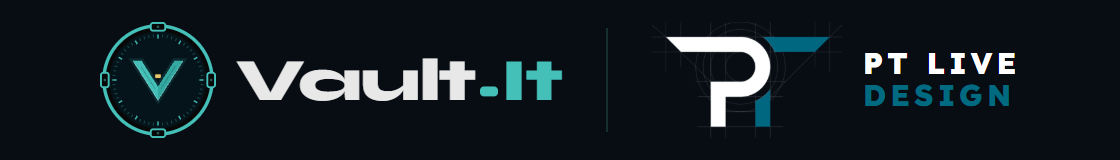
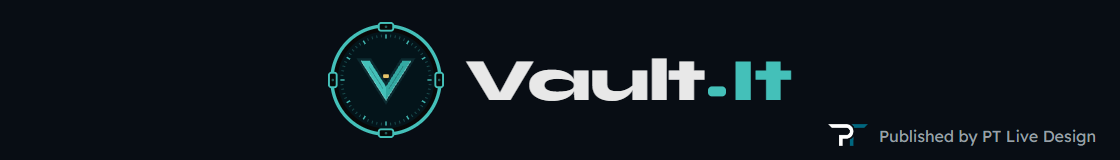
Founder footer: Vault-It leads, small PT mark and Published by PT Live Design
Owner, 4 Nov: no PT Live Design words beside the logo, just the PT, placed small in the bottom
right with "Published by PT Live Design" at 6 pt. brand/ptlive/pt-live-design-mark.png is the
owner's logo with its construction grid taken out. Deployed to media.vault-it.co.

diff --git a/docs/marketing/founder-email/build.js b/docs/marketing/founder-email/build.js
@@ -9,7 +9,7 @@
 // (brand/vault-it-logo-mark-full.svg) the tick ring turns 60 degrees in 900 ms on cubic-bezier(.2,.8,.2,1); the V, bolts and brick stay still.
 // 60 ticks with a long one every 30 degrees, so the turned ring matches the start and the loop is seamless.
 // Frame one is the finished still (Outlook on Windows shows only frame one); plays 3 times, then rests.
-// PT Live Design: the owner's own logo, brand/ptlive/pt-live-design-logo.png, used as supplied (or --ptl-logo another file).
+// PT Live Design: the owner's own logo, brand/ptlive/pt-live-design-logo.png, used as supplied with no words beside it (or --ptl-logo another file).
 // Run (Git Bash, repo root):  node docs/marketing/founder-email/build.js [--ptl-logo path/to/logo.png] [--shots]
 // Needs Chromium (Playwright's copy, or set CHROME=path) and network once for the Google Fonts files.
 const fs = require('fs'), path = require('path'), os = require('os'), cp = require('child_process');
@@ -28,32 +28,32 @@ const icon = fs.readFileSync(path.join(ROOT, 'brand/vault-it-logo-mark-full.svg'
 if (!icon.includes('id="ticks"')) throw new Error('The full dial has no .ticks group to turn');
 // PT Live Design colours (owner's slide, 4 Nov): black and white with deep teal #006A80, bold wide capitals.
 const PTL_TEAL = '#006A80';
-const logoPath = arg('--ptl-logo') || path.join(ROOT, 'brand/ptlive/pt-live-design-logo.png');
+// Only the P and T (brand/ptlive/pt-live-design-mark.png: the owner's logo with its construction grid taken out).
+const logoPath = arg('--ptl-logo') || path.join(ROOT, 'brand/ptlive/pt-live-design-mark.png');
 const logoExt = path.extname(logoPath).slice(1).toLowerCase(), logoMime = logoExt === 'svg' ? 'image/svg+xml' : 'image/' + (logoExt === 'jpg' ? 'jpeg' : logoExt);
-const ptl = `<div class="pt"><img class="ptlogo" src="data:${logoMime};base64,${fs.readFileSync(logoPath).toString('base64')}" alt="">
-<div class="ptn"><div class="ptw">PT LIVE</div><div class="ptd">DESIGN</div></div></div>`;
+// Owner, 4 Nov: Vault-It leads; the PT mark small in the bottom right with "Published by PT Live Design" at 6 pt (8 px).
+const credit = `<div class="cr"><img src="data:${logoMime};base64,${fs.readFileSync(logoPath).toString('base64')}" alt=""><span>Published by PT Live Design</span></div>`;
 const tagline = (eyebrow, colour) => `<div class="tg"><div class="eb" style="color:${colour}">${eyebrow}</div><div class="tg1">Get out of the red</div><div class="tg2">and into your home.</div></div>`;
 const FOOTERS = {
-  'founder': { right: ptl, alt: 'Vault-It and PT Live Design' },
+  'founder': { right: '', credit: true, alt: 'Vault-It, published by PT Live Design' },
   'vault-it-founder': { right: tagline('From the founder', '#E8C56A'), alt: 'Vault-It. Get out of the red and into your home.' },
   'vault-it': { right: tagline('The Vault-It team', '#44C0B9'), alt: 'Vault-It. Get out of the red and into your home.' },
 };
-const frameHtml = (right) => `<!doctype html><meta charset="utf-8">
-<link href="https://fonts.googleapis.com/css2?family=Syne:wght@800&family=Lexend:wght@800&family=Share+Tech+Mono&display=block" rel="stylesheet">
+const frameHtml = (f) => `<!doctype html><meta charset="utf-8">
+<link href="https://fonts.googleapis.com/css2?family=Syne:wght@800&family=Lexend:wght@400;800&family=Share+Tech+Mono&display=block" rel="stylesheet">
 <style>html,body{margin:0;width:${W}px;height:${H}px;background:#080D14;overflow:hidden}
 #s{width:${W}px;height:${H}px;display:flex;align-items:center;justify-content:center;gap:22px}
 .vi{display:flex;align-items:center;gap:10px}.ic{width:58px;height:58px}.ic svg{width:100%;height:100%;display:block}
 .wm{font-family:'Syne';font-weight:800;font-size:30px;letter-spacing:-.02em;color:#E8E8E8;display:inline-flex;align-items:baseline;white-space:nowrap}
 .wm b{font-weight:inherit;color:#44C0B9}.wm .dot{display:inline-block;width:.3em;height:.17em;background:#44C0B9;border-radius:2px;margin:0 .07em;transform:translateY(-.06em)}
 .div{width:1px;height:52px;background:#15302F}
-.pt{display:flex;align-items:center;gap:10px;font-family:'Lexend';text-transform:uppercase;white-space:nowrap}
-.ptlogo{height:58px;width:auto;display:block}
-.ptw,.ptd{font-weight:800;font-size:15px;line-height:1.1;letter-spacing:.14em}.ptw{color:#fff}.ptd{color:${PTL_TEAL}}
+#s{position:relative}.cr{position:absolute;right:12px;bottom:7px;display:flex;align-items:center;gap:5px;font-family:'Lexend';font-weight:400;font-size:8px;line-height:1;color:#9AA0A6;white-space:nowrap}
+.cr img{height:11px;width:auto;display:block}
 .tg{font-family:'Syne';font-weight:800;font-size:15px;line-height:1.2;letter-spacing:-.01em;white-space:nowrap}
 .eb{font-family:'Share Tech Mono';font-weight:400;font-size:10px;letter-spacing:.16em;text-transform:uppercase;margin-bottom:4px}
 .tg1{color:#E8E8E8}.tg2{color:#44C0B9}</style>
 <div id="s"><div class="vi"><span class="ic">${icon}</span><span class="wm">Vault<i class="dot"></i><b>It</b></span></div>
-<div class="div"></div>${right}</div>
+${f.right ? '<div class="div"></div>' + f.right : ''}${f.credit ? credit : ''}</div>
 <script>
 // cubic-bezier(.2,.8,.2,1), the brand book's transition on the tick ring
 const bez = (x1, y1, x2, y2) => { const cx = 3 * x1, bx = 3 * (x2 - x1) - cx, ax = 1 - cx - bx, cy = 3 * y1, by = 3 * (y2 - y1) - cy, ay = 1 - cy - by;
@@ -165,9 +165,9 @@ async function browser() {
   fs.mkdirSync(MEDIA, { recursive: true });
   try {
     for (const [who, f] of Object.entries(FOOTERS)) {
-      const tmp = path.join(os.tmpdir(), `footer-${who}.html`); fs.writeFileSync(tmp, frameHtml(f.right));
+      const tmp = path.join(os.tmpdir(), `footer-${who}.html`); fs.writeFileSync(tmp, frameHtml(f));
       await b.open(tmp, W, H);
-      const fonts = await b.evaluate(`(async()=>{const f=["800 34px Syne","800 27px Lexend","12px 'Share Tech Mono'"];await Promise.all(f.map(x=>document.fonts.load(x)));return f.map(x=>document.fonts.check(x))})()`);
+      const fonts = await b.evaluate(`(async()=>{const f=["800 34px Syne","400 8px Lexend","12px 'Share Tech Mono'"];await Promise.all(f.map(x=>document.fonts.load(x)));return f.map(x=>document.fonts.check(x))})()`);
       if (fonts.includes(false)) throw new Error('A font did not load (Syne, Lexend, Share Tech Mono): ' + fonts);
       const frames = [];
       for (let i = 0; i <= N; i++) { await b.evaluate(`setFrame(${i / N})`); frames.push(await b.shot(W, H)); }

diff --git a/docs/marketing/email-media/public/sig/founder-signature.html b/docs/marketing/email-media/public/sig/founder-signature.html
@@ -9,7 +9,7 @@
 <p style="margin:0 0 6px;font-size:13px;line-height:1.4;color:#9AA0A6">Founder, <span style="white-space:nowrap">PT Live Design</span> and <span style="white-space:nowrap">Vault-It</span></p>
 <p style="margin:0;font-family:'Share Tech Mono',Menlo,Consolas,'Courier New',monospace;font-size:12px;letter-spacing:.04em;line-height:1.7"><span style="white-space:nowrap"><a href="https://ptlive.design" style="color:#44C0B9;text-decoration:none">ptlive.design</a><span style="color:#2D8882"> &middot;</span></span> <span style="white-space:nowrap"><a href="https://vault-it.co" style="color:#44C0B9;text-decoration:none">vault-it.co</a></span></p>
 </td></tr></table></td></tr>
-<tr><td style="padding:0"><a href="https://vault-it.co" style="text-decoration:none;display:block"><img src="https://media.vault-it.co/founder-footer.gif" width="560" alt="Vault-It and PT Live Design" style="display:block;border:0;outline:none;width:100%;max-width:560px;height:auto;background:#080D14;color:#9AA0A6;font-family:'DM Sans','Helvetica Neue',Helvetica,Arial,sans-serif;font-size:13px"></a></td></tr>
+<tr><td style="padding:0"><a href="https://vault-it.co" style="text-decoration:none;display:block"><img src="https://media.vault-it.co/founder-footer.gif" width="560" alt="Vault-It, published by PT Live Design" style="display:block;border:0;outline:none;width:100%;max-width:560px;height:auto;background:#080D14;color:#9AA0A6;font-family:'DM Sans','Helvetica Neue',Helvetica,Arial,sans-serif;font-size:13px"></a></td></tr>
 <tr><td style="padding:12px 22px 14px;border-top:1px solid #15302F"><p style="margin:0 0 6px;font-size:12px;line-height:1.6;color:#9AA0A6">Vault-It is run by PT Live Design, A57, 11 St Mary&#39;s Street, Lincoln LN5 7EQ.</p>
 <p style="margin:0 0 6px;font-size:12px;line-height:1.6;color:#9AA0A6">Not regulated by the FCA. Not financial advice.</p></td></tr>
 </table></body></html>

diff --git a/docs/marketing/founder-email/founder-signature.html b/docs/marketing/founder-email/founder-signature.html
@@ -9,7 +9,7 @@
 <p style="margin:0 0 6px;font-size:13px;line-height:1.4;color:#9AA0A6">Founder, <span style="white-space:nowrap">PT Live Design</span> and <span style="white-space:nowrap">Vault-It</span></p>
 <p style="margin:0;font-family:'Share Tech Mono',Menlo,Consolas,'Courier New',monospace;font-size:12px;letter-spacing:.04em;line-height:1.7"><span style="white-space:nowrap"><a href="https://ptlive.design" style="color:#44C0B9;text-decoration:none">ptlive.design</a><span style="color:#2D8882"> &middot;</span></span> <span style="white-space:nowrap"><a href="https://vault-it.co" style="color:#44C0B9;text-decoration:none">vault-it.co</a></span></p>
 </td></tr></table></td></tr>
-<tr><td style="padding:0"><a href="https://vault-it.co" style="text-decoration:none;display:block"><img src="https://media.vault-it.co/founder-footer.gif" width="560" alt="Vault-It and PT Live Design" style="display:block;border:0;outline:none;width:100%;max-width:560px;height:auto;background:#080D14;color:#9AA0A6;font-family:'DM Sans','Helvetica Neue',Helvetica,Arial,sans-serif;font-size:13px"></a></td></tr>
+<tr><td style="padding:0"><a href="https://vault-it.co" style="text-decoration:none;display:block"><img src="https://media.vault-it.co/founder-footer.gif" width="560" alt="Vault-It, published by PT Live Design" style="display:block;border:0;outline:none;width:100%;max-width:560px;height:auto;background:#080D14;color:#9AA0A6;font-family:'DM Sans','Helvetica Neue',Helvetica,Arial,sans-serif;font-size:13px"></a></td></tr>
 <tr><td style="padding:12px 22px 14px;border-top:1px solid #15302F"><p style="margin:0 0 6px;font-size:12px;line-height:1.6;color:#9AA0A6">Vault-It is run by PT Live Design, A57, 11 St Mary&#39;s Street, Lincoln LN5 7EQ.</p>
 <p style="margin:0 0 6px;font-size:12px;line-height:1.6;color:#9AA0A6">Not regulated by the FCA. Not financial advice.</p></td></tr>
 </table></body></html>

diff --git a/docs/marketing/founder-email/founder-email.html b/docs/marketing/founder-email/founder-email.html
@@ -22,7 +22,7 @@
 <p style="margin:0;font-family:'Share Tech Mono',Menlo,Consolas,'Courier New',monospace;font-size:12px;letter-spacing:.04em;line-height:1.7"><span style="white-space:nowrap"><a href="https://ptlive.design" style="color:#44C0B9;text-decoration:none">ptlive.design</a><span style="color:#2D8882"> &middot;</span></span> <span style="white-space:nowrap"><a href="https://vault-it.co" style="color:#44C0B9;text-decoration:none">vault-it.co</a></span></p>
 </td></tr></table>
 </td></tr>
-<tr><td style="padding:26px 0 0"><a href="https://vault-it.co" style="text-decoration:none;display:block"><img src="https://media.vault-it.co/founder-footer.gif" width="560" alt="Vault-It and PT Live Design" style="display:block;border:0;outline:none;width:100%;max-width:560px;height:auto;background:#080D14;color:#9AA0A6;font-family:'DM Sans','Helvetica Neue',Helvetica,Arial,sans-serif;font-size:13px"></a></td></tr>
+<tr><td style="padding:26px 0 0"><a href="https://vault-it.co" style="text-decoration:none;display:block"><img src="https://media.vault-it.co/founder-footer.gif" width="560" alt="Vault-It, published by PT Live Design" style="display:block;border:0;outline:none;width:100%;max-width:560px;height:auto;background:#080D14;color:#9AA0A6;font-family:'DM Sans','Helvetica Neue',Helvetica,Arial,sans-serif;font-size:13px"></a></td></tr>
 <tr><td style="padding:18px 32px 26px;border-top:1px solid #15302F">
 <p style="margin:0 0 6px;font-size:12px;line-height:1.6;color:#9AA0A6"><span style="color:#E8E8E8">Get out of the red and into your home.</span></p>
 <p style="margin:0 0 6px;font-size:12px;line-height:1.6;color:#9AA0A6">Vault-It is run by PT Live Design, A57, 11 St Mary&#39;s Street, Lincoln LN5 7EQ.</p>

diff --git a/docs/marketing/founder-email/founder-email-preview.html b/docs/marketing/founder-email/founder-email-preview.html
@@ -22,7 +22,7 @@
 <p style="margin:0;font-family:'Share Tech Mono',Menlo,Consolas,'Courier New',monospace;font-size:12px;letter-spacing:.04em;line-height:1.7"><span style="white-space:nowrap"><a href="https://ptlive.design" style="color:#44C0B9;text-decoration:none">ptlive.design</a><span style="color:#2D8882"> &middot;</span></span> <span style="white-space:nowrap"><a href="https://vault-it.co" style="color:#44C0B9;text-decoration:none">vault-it.co</a></span></p>
 </td></tr></table>
 </td></tr>
-<tr><td style="padding:26px 0 0"><a href="https://vault-it.co" style="text-decoration:none;display:block"><img src="../email-media/public/founder-footer.gif" width="560" alt="Vault-It and PT Live Design" style="display:block;border:0;outline:none;width:100%;max-width:560px;height:auto;background:#080D14;color:#9AA0A6;font-family:'DM Sans','Helvetica Neue',Helvetica,Arial,sans-serif;font-size:13px"></a></td></tr>
+<tr><td style="padding:26px 0 0"><a href="https://vault-it.co" style="text-decoration:none;display:block"><img src="../email-media/public/founder-footer.gif" width="560" alt="Vault-It, published by PT Live Design" style="display:block;border:0;outline:none;width:100%;max-width:560px;height:auto;background:#080D14;color:#9AA0A6;font-family:'DM Sans','Helvetica Neue',Helvetica,Arial,sans-serif;font-size:13px"></a></td></tr>
 <tr><td style="padding:18px 32px 26px;border-top:1px solid #15302F">
 <p style="margin:0 0 6px;font-size:12px;line-height:1.6;color:#9AA0A6"><span style="color:#E8E8E8">Get out of the red and into your home.</span></p>
 <p style="margin:0 0 6px;font-size:12px;line-height:1.6;color:#9AA0A6">Vault-It is run by PT Live Design, A57, 11 St Mary&#39;s Street, Lincoln LN5 7EQ.</p>
